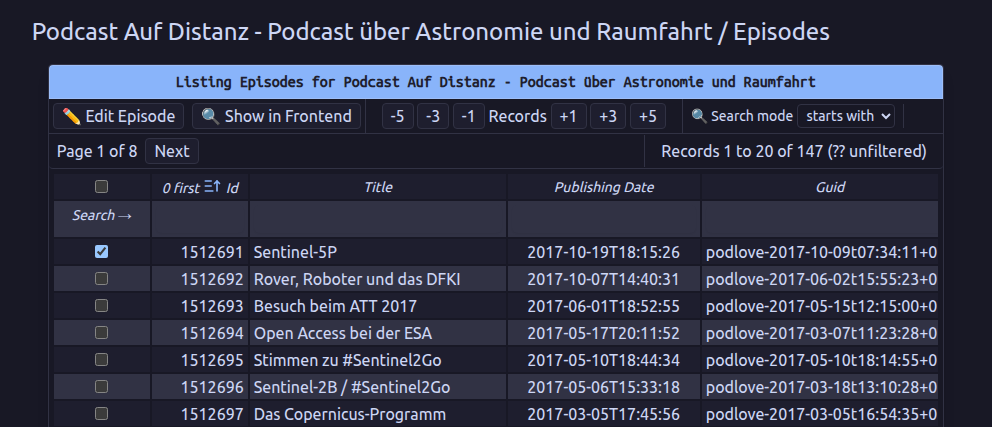
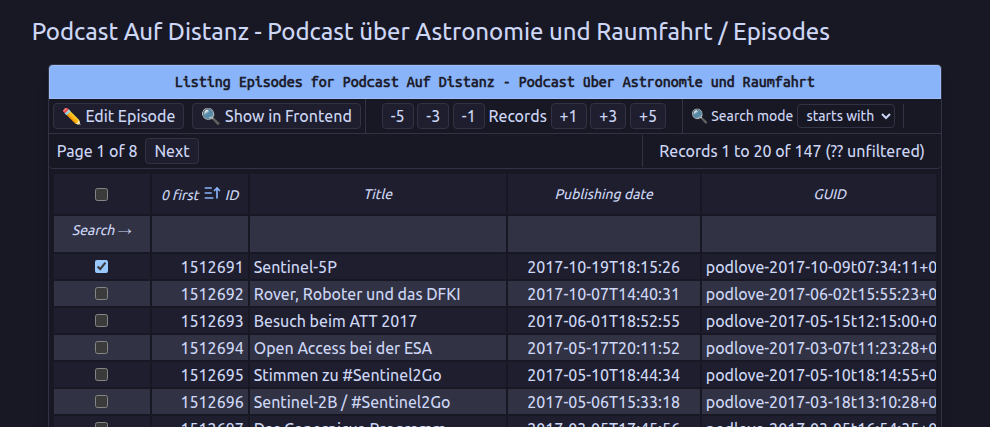
Moderator and podcaster manuals: new shots of the moderation tables and the persona search (translated column headers)

diff --git a/pages/manuals/moderator-manual.de.md b/pages/manuals/moderator-manual.de.md
@@ -55,7 +55,7 @@ Es gibt zwei Wege, einen Podcast zu Ihrer Community hinzuzufügen:
 
 ### Die Podcast-Tabelle
 
-Die Tabelle „Podcasts“ zeigt die Podcasts Ihrer Community mit vielen Spalten, darunter die Zahl der Episoden, Follower:innen, Likes und Abonnements, ob Aktualisierungen pausiert sind, ob der Podcast stillgelegt ist, wie viele Aktualisierungen hintereinander fehlgeschlagen sind und die letzte Fehlermeldung. Die Spaltennamen sind englisch. Sie können in der Tabelle suchen, sortieren und blättern.
+Die Tabelle „Podcasts“ zeigt die Podcasts Ihrer Community mit vielen Spalten, darunter die Zahl der Episoden, Follower:innen, Likes und Abonnements, ob Aktualisierungen pausiert sind, ob der Podcast stillgelegt ist, wie viele Aktualisierungen hintereinander fehlgeschlagen sind und die letzte Fehlermeldung. Sie können in der Tabelle suchen, sortieren und blättern.
 
 Wählen Sie einen Podcast mit dem Kästchen am Anfang seiner Zeile aus und klicken Sie dann auf einen der Buttons:
 
